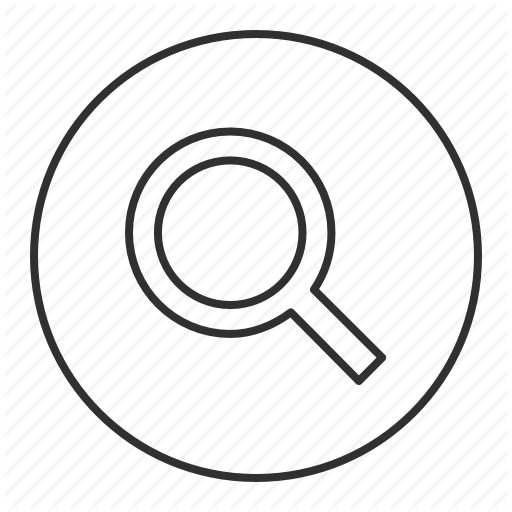
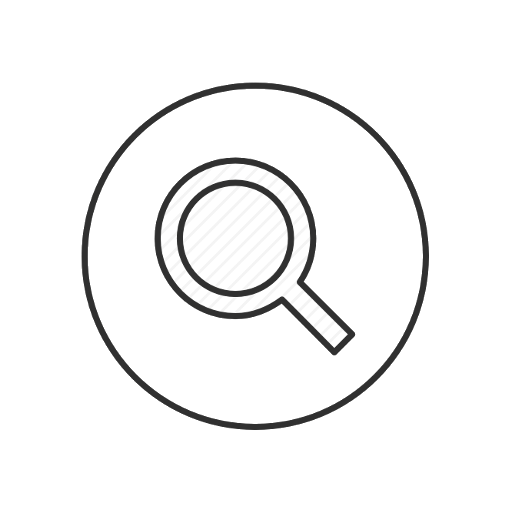
correções imagens

diff --git a/src/components/Header.css b/src/components/Header.css
@@ -13,9 +13,8 @@ h2 {
 }
 
 .search-icon {
-  height: 3rem;
-  margin-top: 0.5rem;
-  width: 3rem;
+  height: 4rem;
+  width: 4rem;
 }
 
 @media only screen and ( max-width : 761px ) {
@@ -26,10 +25,5 @@ h2 {
     justify-content: space-around;
     margin: 0;
     padding-top: 0.5rem;
-  }
-
-  .profile-icon {
-    margin-right: -12px;
-    width: 4rem;
   }
 }

diff --git a/src/context/Recipes.js b/src/context/Recipes.js
@@ -7,7 +7,7 @@ const RecipesProvider = ({ children }) => {
   // useState
   const [email, setEmail] = useState('');
   const [password, setPassword] = useState('');
-  const [headerTitle, setHeaderTitle] = useState('Receitas');
+  const [headerTitle] = useState('Receitas');
 
   // context 1 - funções
 
